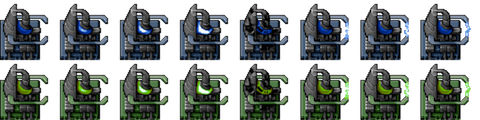
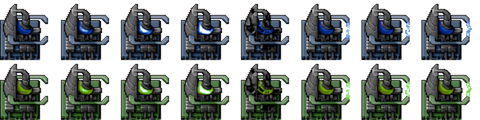
added Ground Turret.

Changed region(s): [[0.125, 0.525, 1.0, 1.0], [0.125, 0.025, 1.0, 0.5]]

diff --git a/www/js/states/Game.js b/www/js/states/Game.js
@@ -3,12 +3,12 @@ var __extends = (this && this.__extends) || function (d, b) {
     function __() { this.constructor = d; }
     d.prototype = b === null ? Object.create(b) : (__.prototype = b.prototype, new __());
 };
-define(["require", "exports", "components/EntityManager", "processors/SwipeProcessor", "processors/DragDropProcessor", "processors/RenderingProcessor", "processors/TileMapProcessor", "processors/AnimationProcessor", "processors/GroupProcessor", "processors/SelectableProcessor", "components/Displayable", "components/Position", "components/DragDrop", "components/Animation", "components/AnimationSet", "components/Group", "components/Selectable", "components/Type", "assemblages/buildings/Base", "assemblages/buildings/StarPort", "assemblages/buildings/Harvester"], function (require, exports, EntityManager, SwipeProcessor, DragDropProcessor, RenderingProcessor, TileMapProcessor, AnimationProcessor, GroupProcessor, SelectableProcessor, Displayable, Position, DragDrop, Animation, AnimationSet, Group, Selectable, Type, BaseAssemblage, StarPortAssemblage, HarvesterAssemblage) {
+define(["require", "exports", "components/EntityManager", "processors/SwipeProcessor", "processors/DragDropProcessor", "processors/RenderingProcessor", "processors/TileMapProcessor", "processors/AnimationProcessor", "processors/GroupProcessor", "processors/SelectableProcessor", "components/Displayable", "components/Position", "components/DragDrop", "components/Animation", "components/AnimationSet", "components/Group", "components/Selectable", "components/Type", "assemblages/buildings/Base", "assemblages/buildings/StarPort", "assemblages/buildings/Harvester", "assemblages/buildings/Ground-turret"], function (require, exports, EntityManager, SwipeProcessor, DragDropProcessor, RenderingProcessor, TileMapProcessor, AnimationProcessor, GroupProcessor, SelectableProcessor, Displayable, Position, DragDrop, Animation, AnimationSet, Group, Selectable, Type, BaseAssemblage, StarPortAssemblage, HarvesterAssemblage, GroundTurretAssemblage) {
     "use strict";
     var Game = (function (_super) {
         __extends(Game, _super);
         function Game() {
-            _super.call(this);
+            return _super.call(this) || this;
         }
         Game.prototype.preload = function () {
         };
@@ -17,7 +17,7 @@ define(["require", "exports", "components/EntityManager", "processors/SwipeProce
             this.game.time.advancedTiming = true;
             var components = [Displayable, Position, DragDrop, Animation, AnimationSet, Group, Selectable, Type];
             this.manager.addComponents(components);
-            var assemblages = [BaseAssemblage, StarPortAssemblage, HarvesterAssemblage];
+            var assemblages = [BaseAssemblage, StarPortAssemblage, HarvesterAssemblage, GroundTurretAssemblage];
             this.manager.addAssemblages(assemblages);
         };
         Game.prototype.create = function () {
@@ -29,6 +29,8 @@ define(["require", "exports", "components/EntityManager", "processors/SwipeProce
             this.manager.updateComponentDataForEntity('Position', baseEntityId3, { x: 360, y: 200 });
             var baseEntityId4 = this.manager.createEntityFromAssemblage('harvester');
             this.manager.updateComponentDataForEntity('Position', baseEntityId4, { x: 460, y: 200 });
+            var baseEntityId5 = this.manager.createEntityFromAssemblage('ground-turret');
+            this.manager.updateComponentDataForEntity('Position', baseEntityId5, { x: 560, y: 200 });
             this.manager.addProcessor(new TileMapProcessor(this.manager, this.game));
             this.manager.addProcessor(new SwipeProcessor(this.manager, this.game, this.game));
             this.manager.addProcessor(new RenderingProcessor(this.manager, this.game));

diff --git a/typescripts/states/Game.ts b/typescripts/states/Game.ts
@@ -19,6 +19,7 @@ import Type = require("components/Type");
 import BaseAssemblage = require("assemblages/buildings/Base")
 import StarPortAssemblage = require("assemblages/buildings/StarPort")
 import HarvesterAssemblage = require("assemblages/buildings/Harvester")
+import GroundTurretAssemblage = require("assemblages/buildings/Ground-turret")
 
 class Game extends Phaser.State {
     private manager: EntityManager;
@@ -39,7 +40,7 @@ class Game extends Phaser.State {
         this.manager.addComponents(components);
 
         // assemblages is a pre-setup template used to create game entities.
-        var assemblages = [BaseAssemblage, StarPortAssemblage , HarvesterAssemblage];
+        var assemblages = [BaseAssemblage, StarPortAssemblage , HarvesterAssemblage, GroundTurretAssemblage];
         this.manager.addAssemblages(assemblages);
 
     }
@@ -61,6 +62,9 @@ class Game extends Phaser.State {
 
         var baseEntityId4 = this.manager.createEntityFromAssemblage('harvester');
         this.manager.updateComponentDataForEntity('Position', baseEntityId4, { x: 460, y: 200 });
+
+        var baseEntityId5 = this.manager.createEntityFromAssemblage('ground-turret');
+        this.manager.updateComponentDataForEntity('Position', baseEntityId5, { x: 560, y: 200 });
 
         this.manager.addProcessor(new TileMapProcessor(this.manager, this.game));
         this.manager.addProcessor(new SwipeProcessor(this.manager, this.game, this.game));

diff --git a/www/js/states/PreLoader.js b/www/js/states/PreLoader.js
@@ -8,7 +8,7 @@ define(["require", "exports", "../GlobalEntityManager", "processors/InputProcess
     var PreLoader = (function (_super) {
         __extends(PreLoader, _super);
         function PreLoader() {
-            _super.call(this);
+            return _super.call(this) || this;
         }
         PreLoader.prototype.init = function () {
             GlobalEntityManager.addComponent(Input.name, Input);
@@ -33,6 +33,7 @@ define(["require", "exports", "../GlobalEntityManager", "processors/InputProcess
             this.game.load.spritesheet('base', 'assets/gfx/buildings/base.png', 60, 60);
             this.game.load.spritesheet('starport', 'assets/gfx/buildings/starport.png', 40, 60);
             this.game.load.spritesheet('harvester', 'assets/gfx/buildings/harvester.png', 40, 60);
+            this.game.load.spritesheet('ground-turret', 'assets/gfx/buildings/ground-turret.png', 38, 32);
         };
         PreLoader.prototype.create = function () {
             this.add.tween(this.background)

diff --git a/www/js/processors/SelectableProcessor.js b/www/js/processors/SelectableProcessor.js
@@ -1,4 +1,4 @@
-define(["require", "exports", "assemblages/buildings/Base", "assemblages/buildings/StarPort", "assemblages/buildings/Harvester"], function (require, exports, BaseAssemblage, StarPortAssemblage, HarvesterAssemblage) {
+define(["require", "exports"], function (require, exports) {
     "use strict";
     var SelectableProcessor = (function () {
         function SelectableProcessor(manager, game) {
@@ -35,7 +35,7 @@ define(["require", "exports", "assemblages/buildings/Base", "assemblages/buildin
             this.isDitry = false;
         };
         SelectableProcessor.prototype.getDescription = function (name) {
-            var assemblages = [BaseAssemblage, StarPortAssemblage, HarvesterAssemblage];
+            var assemblages = this.manager.getAssemblages();
             for (var key in assemblages) {
                 var assemblage = assemblages[key];
                 if (assemblage.name == name) {

diff --git a/www/js/assemblages/buildings/Ground-turret.js b/www/js/assemblages/buildings/Ground-turret.js
@@ -1,0 +1,33 @@
+define(["require", "exports"], function (require, exports) {
+    "use strict";
+    var assemblage = {
+        name: "ground-turret",
+        description: "The ground turret can attack ground units.",
+        components: [
+            'Displayable',
+            'Position',
+            'DragDrop',
+            'Animation',
+            'AnimationSet',
+            'Group',
+            'Selectable',
+            "Type"
+        ],
+        initialState: {
+            Displayable: {
+                sprite: 'ground-turret'
+            },
+            Position: {
+                x: 300,
+                y: 200
+            },
+            AnimationSet: {
+                setName: 'ground-turret'
+            },
+            Type: {
+                type: "ground-turret"
+            }
+        }
+    };
+    return assemblage;
+});

diff --git a/typescripts/assemblages/buildings/Ground-turret.ts b/typescripts/assemblages/buildings/Ground-turret.ts
@@ -1,0 +1,37 @@
+/// <reference path="../../components/EntityManager.d.ts" />
+/// <reference path="../../components/Component.d.ts" />
+
+var assemblage: Component.Assemblage = 
+{
+    name: "ground-turret",
+    description: "The ground turret can attack ground units.",
+    components: [
+        'Displayable',
+        'Position',
+        'DragDrop',
+        'Animation',
+        'AnimationSet',
+        'Group',
+        'Selectable',
+        "Type"        
+    ],
+    initialState: {
+        Displayable: {
+            sprite: 'ground-turret'
+        },
+        Position: {
+            x: 300,
+            y: 200
+        },
+        AnimationSet: {
+            setName: 'ground-turret'
+        },
+        Type : {
+            type:"ground-turret"
+        }
+    }
+};
+
+
+
+export = assemblage;

diff --git a/www/js/settings/GameStaticData.js b/www/js/settings/GameStaticData.js
@@ -3,7 +3,7 @@ define(["require", "exports"], function (require, exports) {
     var GameStaticData = [
         {
             "name": "base",
-            "pixelWidth": 60,
+            "pixelWidth": 55,
             "pixelHeight": 60,
             "baseWidth": 40,
             "baseHeight": 40,
@@ -168,9 +168,9 @@ define(["require", "exports"], function (require, exports) {
                 },
                 {
                     "name": "healthy",
-                    "frames": [9, 10, 11, 12, 13, 14, 15, 16, 17],
+                    "frames": [9, 10, 11, 12, 13, 14, 15, 16],
                     "loop": false,
-                    "framePerSecond": 10
+                    "framePerSecond": 30
                 },
                 {
                     "name": "damaged",

diff --git a/typescripts/settings/GameStaticData.ts b/typescripts/settings/GameStaticData.ts
@@ -3,7 +3,7 @@ var GameStaticData =
         {
             "name": "base",
             // Properties for drawing the object
-            "pixelWidth": 60,
+            "pixelWidth": 55,
             "pixelHeight": 60,
             "baseWidth": 40,
             "baseHeight": 40,
@@ -171,9 +171,9 @@ var GameStaticData =
                 },
                 {
                     "name": "healthy",
-                    "frames": [9,10,11,12,13,14,15,16,17],
+                    "frames": [9,10,11,12,13,14,15,16],
                     "loop": false,
-                    "framePerSecond": 10
+                    "framePerSecond": 30
                 },
                 {
                     "name": "damaged",

diff --git a/www/js/utils/Utils.js b/www/js/utils/Utils.js
@@ -6,11 +6,11 @@ define(["require", "exports"], function (require, exports) {
         return ScreenMetrics;
     }());
     exports.ScreenMetrics = ScreenMetrics;
+    var Orientation;
     (function (Orientation) {
         Orientation[Orientation["PORTRAIT"] = 0] = "PORTRAIT";
         Orientation[Orientation["LANDSCAPE"] = 1] = "LANDSCAPE";
-    })(exports.Orientation || (exports.Orientation = {}));
-    var Orientation = exports.Orientation;
+    })(Orientation = exports.Orientation || (exports.Orientation = {}));
     ;
     var ScreenUtils = (function () {
         function ScreenUtils() {

diff --git a/typescripts/states/PreLoader.ts b/typescripts/states/PreLoader.ts
@@ -48,6 +48,7 @@ class PreLoader extends Phaser.State {
         this.game.load.spritesheet('base', 'assets/gfx/buildings/base.png', 60, 60);
         this.game.load.spritesheet('starport', 'assets/gfx/buildings/starport.png', 40, 60);
         this.game.load.spritesheet('harvester', 'assets/gfx/buildings/harvester.png', 40, 60);
+        this.game.load.spritesheet('ground-turret', 'assets/gfx/buildings/ground-turret.png', 38, 32);
 
 
     }

diff --git a/typescripts/components/EntityManager.d.ts b/typescripts/components/EntityManager.d.ts
@@ -37,6 +37,7 @@ declare  class EntityManager {
     entityHasComponent(entityId:number, componentId:string): boolean;
     addAssemblage(id: string, assemblage: any): EntityManager;
     addAssemblages(assemblage:any[]): EntityManager;
+    getAssemblages():any[];
     removeAssemblage(id: string);
     createEntityFromAssemblage(assemblageId:string) : number;
     addProcessor(processor: EntityManager.Processor): EntityManager; 

diff --git a/www/lib/entity-manager.js b/www/lib/entity-manager.js
@@ -408,6 +408,14 @@ define(function () {
     // ASSEMBLAGES
 
     /**
+     * Get a list of predefined Assemblags
+     * @return {object} - this.assemblags
+     */
+    EntityManager.prototype.getAssemblages = function () {
+        return this.assemblages;
+    };
+
+    /**
      * Add an assemblage to the list of known assemblages.
      *
      * @param {string} id - Unique identifier of the assemblage.
